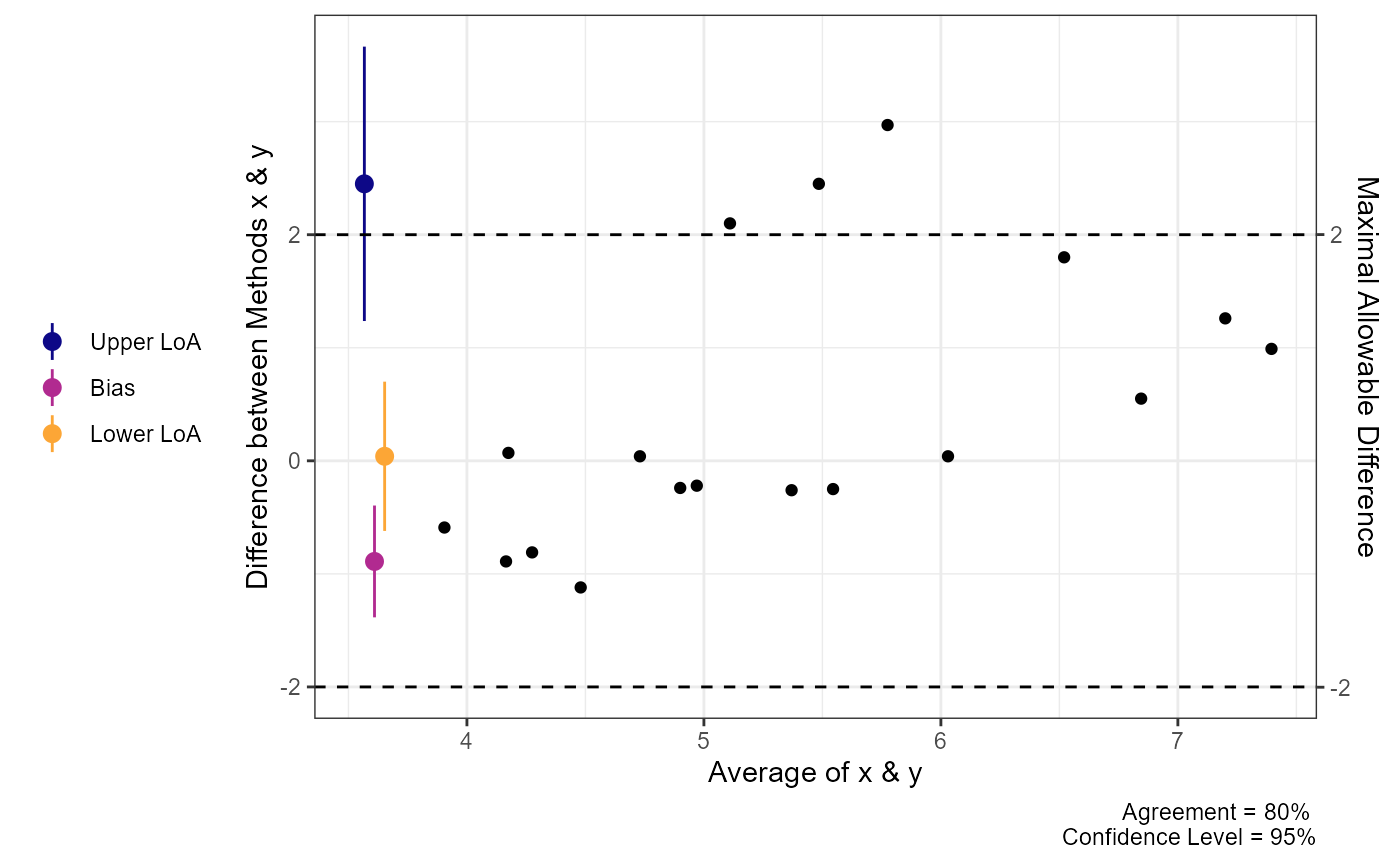
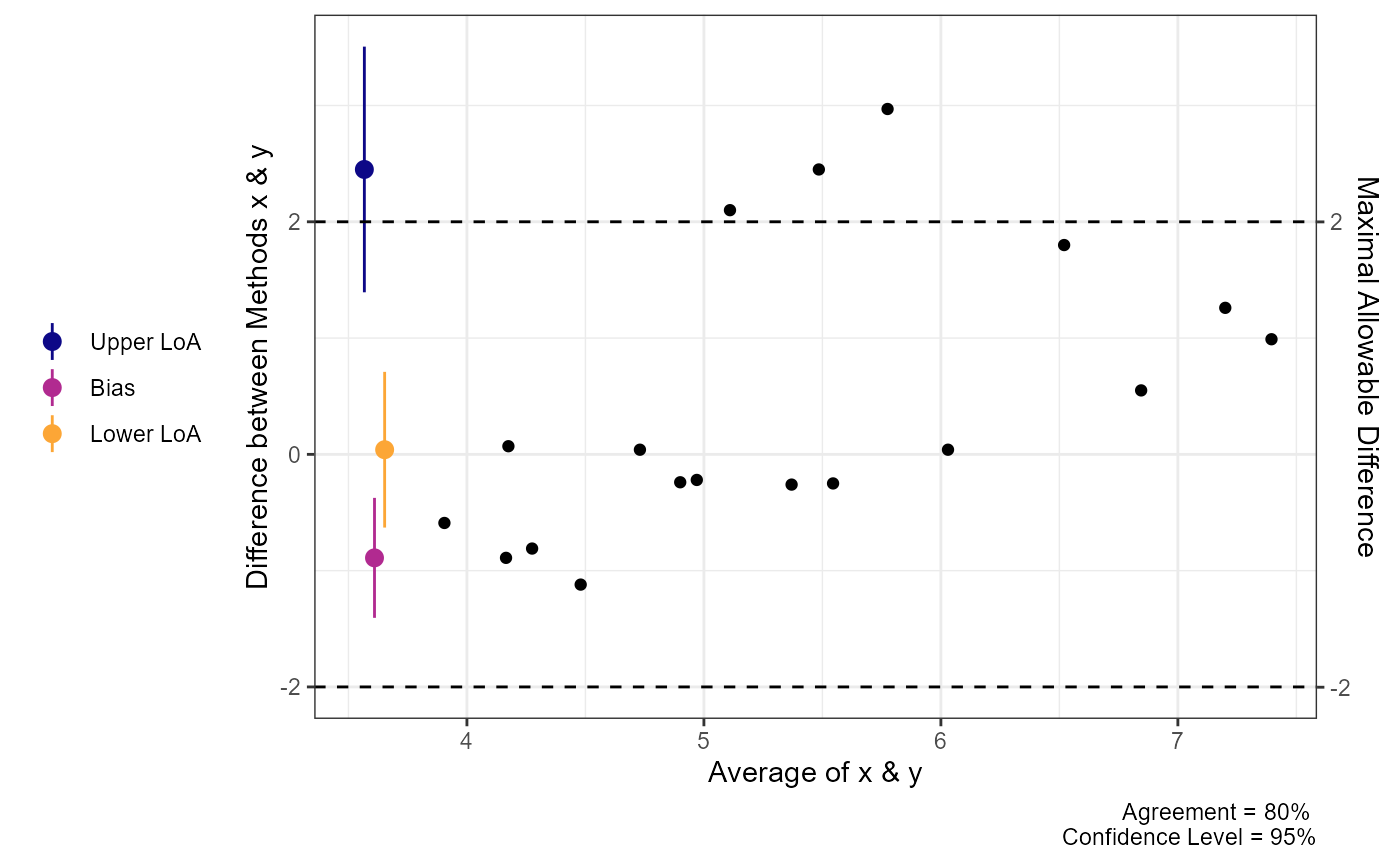
Update documentation
simple_agree functions now minimally documented correctly

diff --git a/docs/reference/agree_np.html b/docs/reference/agree_np.html
@@ -1,7 +1,5 @@
 <!DOCTYPE html>
-<!-- Generated by pkgdown: do not edit by hand --><html lang="en"><head><meta http-equiv="Content-Type" content="text/html; charset=UTF-8"><meta charset="utf-8"><meta http-equiv="X-UA-Compatible" content="IE=edge"><meta name="viewport" content="width=device-width, initial-scale=1.0"><title>Nonparametric Test for Limits of Agreement
-A non-parametric approach to limits of agreement. The hypothesis test is based on binomial proportions within the maximal allowable differences, and the limits are calculated with quantile regression. — agree_np • SimplyAgree</title><!-- jquery --><script src="https://cdnjs.cloudflare.com/ajax/libs/jquery/3.4.1/jquery.min.js" integrity="sha256-CSXorXvZcTkaix6Yvo6HppcZGetbYMGWSFlBw8HfCJo=" crossorigin="anonymous"></script><!-- Bootstrap --><link rel="stylesheet" href="https://cdnjs.cloudflare.com/ajax/libs/twitter-bootstrap/3.4.1/css/bootstrap.min.css" integrity="sha256-bZLfwXAP04zRMK2BjiO8iu9pf4FbLqX6zitd+tIvLhE=" crossorigin="anonymous"><script src="https://cdnjs.cloudflare.com/ajax/libs/twitter-bootstrap/3.4.1/js/bootstrap.min.js" integrity="sha256-nuL8/2cJ5NDSSwnKD8VqreErSWHtnEP9E7AySL+1ev4=" crossorigin="anonymous"></script><!-- bootstrap-toc --><link rel="stylesheet" href="../bootstrap-toc.css"><script src="../bootstrap-toc.js"></script><!-- Font Awesome icons --><link rel="stylesheet" href="https://cdnjs.cloudflare.com/ajax/libs/font-awesome/5.12.1/css/all.min.css" integrity="sha256-mmgLkCYLUQbXn0B1SRqzHar6dCnv9oZFPEC1g1cwlkk=" crossorigin="anonymous"><link rel="stylesheet" href="https://cdnjs.cloudflare.com/ajax/libs/font-awesome/5.12.1/css/v4-shims.min.css" integrity="sha256-wZjR52fzng1pJHwx4aV2AO3yyTOXrcDW7jBpJtTwVxw=" crossorigin="anonymous"><!-- clipboard.js --><script src="https://cdnjs.cloudflare.com/ajax/libs/clipboard.js/2.0.6/clipboard.min.js" integrity="sha256-inc5kl9MA1hkeYUt+EC3BhlIgyp/2jDIyBLS6k3UxPI=" crossorigin="anonymous"></script><!-- headroom.js --><script src="https://cdnjs.cloudflare.com/ajax/libs/headroom/0.11.0/headroom.min.js" integrity="sha256-AsUX4SJE1+yuDu5+mAVzJbuYNPHj/WroHuZ8Ir/CkE0=" crossorigin="anonymous"></script><script src="https://cdnjs.cloudflare.com/ajax/libs/headroom/0.11.0/jQuery.headroom.min.js" integrity="sha256-ZX/yNShbjqsohH1k95liqY9Gd8uOiE1S4vZc+9KQ1K4=" crossorigin="anonymous"></script><!-- pkgdown --><link href="../pkgdown.css" rel="stylesheet"><script src="../pkgdown.js"></script><meta property="og:title" content="Nonparametric Test for Limits of Agreement
-A non-parametric approach to limits of agreement. The hypothesis test is based on binomial proportions within the maximal allowable differences, and the limits are calculated with quantile regression. — agree_np"><meta property="og:description" content="agree_np produces an agreement analysis based on quantiles and"><!-- mathjax --><script src="https://cdnjs.cloudflare.com/ajax/libs/mathjax/2.7.5/MathJax.js" integrity="sha256-nvJJv9wWKEm88qvoQl9ekL2J+k/RWIsaSScxxlsrv8k=" crossorigin="anonymous"></script><script src="https://cdnjs.cloudflare.com/ajax/libs/mathjax/2.7.5/config/TeX-AMS-MML_HTMLorMML.js" integrity="sha256-84DKXVJXs0/F8OTMzX4UR909+jtl4G7SPypPavF+GfA=" crossorigin="anonymous"></script><!--[if lt IE 9]>
+<!-- Generated by pkgdown: do not edit by hand --><html lang="en"><head><meta http-equiv="Content-Type" content="text/html; charset=UTF-8"><meta charset="utf-8"><meta http-equiv="X-UA-Compatible" content="IE=edge"><meta name="viewport" content="width=device-width, initial-scale=1.0"><title>Nonparametric Test for Limits of Agreement — agree_np • SimplyAgree</title><!-- jquery --><script src="https://cdnjs.cloudflare.com/ajax/libs/jquery/3.4.1/jquery.min.js" integrity="sha256-CSXorXvZcTkaix6Yvo6HppcZGetbYMGWSFlBw8HfCJo=" crossorigin="anonymous"></script><!-- Bootstrap --><link rel="stylesheet" href="https://cdnjs.cloudflare.com/ajax/libs/twitter-bootstrap/3.4.1/css/bootstrap.min.css" integrity="sha256-bZLfwXAP04zRMK2BjiO8iu9pf4FbLqX6zitd+tIvLhE=" crossorigin="anonymous"><script src="https://cdnjs.cloudflare.com/ajax/libs/twitter-bootstrap/3.4.1/js/bootstrap.min.js" integrity="sha256-nuL8/2cJ5NDSSwnKD8VqreErSWHtnEP9E7AySL+1ev4=" crossorigin="anonymous"></script><!-- bootstrap-toc --><link rel="stylesheet" href="../bootstrap-toc.css"><script src="../bootstrap-toc.js"></script><!-- Font Awesome icons --><link rel="stylesheet" href="https://cdnjs.cloudflare.com/ajax/libs/font-awesome/5.12.1/css/all.min.css" integrity="sha256-mmgLkCYLUQbXn0B1SRqzHar6dCnv9oZFPEC1g1cwlkk=" crossorigin="anonymous"><link rel="stylesheet" href="https://cdnjs.cloudflare.com/ajax/libs/font-awesome/5.12.1/css/v4-shims.min.css" integrity="sha256-wZjR52fzng1pJHwx4aV2AO3yyTOXrcDW7jBpJtTwVxw=" crossorigin="anonymous"><!-- clipboard.js --><script src="https://cdnjs.cloudflare.com/ajax/libs/clipboard.js/2.0.6/clipboard.min.js" integrity="sha256-inc5kl9MA1hkeYUt+EC3BhlIgyp/2jDIyBLS6k3UxPI=" crossorigin="anonymous"></script><!-- headroom.js --><script src="https://cdnjs.cloudflare.com/ajax/libs/headroom/0.11.0/headroom.min.js" integrity="sha256-AsUX4SJE1+yuDu5+mAVzJbuYNPHj/WroHuZ8Ir/CkE0=" crossorigin="anonymous"></script><script src="https://cdnjs.cloudflare.com/ajax/libs/headroom/0.11.0/jQuery.headroom.min.js" integrity="sha256-ZX/yNShbjqsohH1k95liqY9Gd8uOiE1S4vZc+9KQ1K4=" crossorigin="anonymous"></script><!-- pkgdown --><link href="../pkgdown.css" rel="stylesheet"><script src="../pkgdown.js"></script><meta property="og:title" content="Nonparametric Test for Limits of Agreement — agree_np"><meta property="og:description" content="agree_np A non-parametric approach to limits of agreement. The hypothesis test is based on binomial proportions within the maximal allowable differences, and the limits are calculated with quantile regression."><!-- mathjax --><script src="https://cdnjs.cloudflare.com/ajax/libs/mathjax/2.7.5/MathJax.js" integrity="sha256-nvJJv9wWKEm88qvoQl9ekL2J+k/RWIsaSScxxlsrv8k=" crossorigin="anonymous"></script><script src="https://cdnjs.cloudflare.com/ajax/libs/mathjax/2.7.5/config/TeX-AMS-MML_HTMLorMML.js" integrity="sha256-84DKXVJXs0/F8OTMzX4UR909+jtl4G7SPypPavF+GfA=" crossorigin="anonymous"></script><!--[if lt IE 9]>
 <script src="https://oss.maxcdn.com/html5shiv/3.7.3/html5shiv.min.js"></script>
 <script src="https://oss.maxcdn.com/respond/1.4.2/respond.min.js"></script>
 <![endif]--></head><body data-spy="scroll" data-target="#toc">
@@ -58,14 +56,13 @@ A non-parametric approach to limits of agreement. The hypothesis test is based o
       </header><div class="row">
   <div class="col-md-9 contents">
     <div class="page-header">
-    <h1>Nonparametric Test for Limits of Agreement
-A non-parametric approach to limits of agreement. The hypothesis test is based on binomial proportions within the maximal allowable differences, and the limits are calculated with quantile regression.</h1>
+    <h1>Nonparametric Test for Limits of Agreement</h1>
     
     <div class="hidden name"><code>agree_np.Rd</code></div>
     </div>
 
     <div class="ref-description">
-    <p>agree_np produces an agreement analysis based on quantiles and</p>
+    <p>agree_np A non-parametric approach to limits of agreement. The hypothesis test is based on binomial proportions within the maximal allowable differences, and the limits are calculated with quantile regression.</p>
     </div>
 
     <div id="ref-usage">
@@ -105,17 +102,20 @@ A non-parametric approach to limits of agreement. The hypothesis test is based o
 </dl></div>
     <div id="value">
     <h2>Value</h2>
-    <p>Returns adv-agree object with the results of the agreement analysis.</p><dl><dt><code>"loa"</code></dt>
-<dd><p>a data frame of the limits of agreement.</p></dd>
+    <p>Returns simple_agree object with the results of the agreement analysis.</p><dl><dt><code>"loa"</code></dt>
+<dd><p>A data frame of the limits of agreement.</p></dd>
 
   <dt><code>"agee"</code></dt>
-<dd><p>a data frame of the binomial proportion of results in agreement..</p></dd>
+<dd><p>A data frame of the binomial proportion of results in agreement.</p></dd>
 
   <dt><code>"h0_test"</code></dt>
 <dd><p>Decision from hypothesis test.</p></dd>
 
+  <dt><code>"qr_mod"</code></dt>
+<dd><p>The quantile regression model.</p></dd>
+
   <dt><code>"call"</code></dt>
-<dd><p>the matched call</p></dd>
+<dd><p>The matched call</p></dd>
 
 
 
@@ -131,6 +131,7 @@ A non-parametric approach to limits of agreement. The hypothesis test is based o
     <h2>Examples</h2>
     <div class="sourceCode"><pre class="sourceCode r"><code><span class="r-in"><span class="fu"><a href="https://rdrr.io/r/utils/data.html" class="external-link">data</a></span><span class="op">(</span><span class="st">'reps'</span><span class="op">)</span></span>
 <span class="r-in"><span class="fu">agree_np</span><span class="op">(</span>x <span class="op">=</span> <span class="st">"x"</span>, y <span class="op">=</span> <span class="st">"y"</span>, id <span class="op">=</span> <span class="st">"id"</span>, data <span class="op">=</span> <span class="va">reps</span>, delta <span class="op">=</span> <span class="fl">2</span><span class="op">)</span></span>
+<span class="r-wrn co"><span class="r-pr">#&gt;</span> <span class="warning">Warning: </span>Evidence of proportional bias. Consider setting prop_bias to TRUE.</span>
 <span class="r-out co"><span class="r-pr">#&gt;</span> Limit of Agreement = 95%</span>
 <span class="r-out co"><span class="r-pr">#&gt;</span> Binomial proportions test and quantile regression for LoA</span>
 <span class="r-out co"><span class="r-pr">#&gt;</span> </span>
@@ -140,9 +141,9 @@ A non-parametric approach to limits of agreement. The hypothesis test is based o
 <span class="r-out co"><span class="r-pr">#&gt;</span> </span>
 <span class="r-out co"><span class="r-pr">#&gt;</span> ###- Quantile Limits of Agreement (LoA) -###</span>
 <span class="r-out co"><span class="r-pr">#&gt;</span>           Estimate Lower CI Upper CI CI Level</span>
-<span class="r-out co"><span class="r-pr">#&gt;</span> Lower LoA    -1.12  -1.4456  -0.7944     0.90</span>
-<span class="r-out co"><span class="r-pr">#&gt;</span> Bias          0.04  -0.5896   0.6696     0.95</span>
-<span class="r-out co"><span class="r-pr">#&gt;</span> Upper LoA     2.97   2.2234   3.7166     0.90</span>
+<span class="r-out co"><span class="r-pr">#&gt;</span> Lower LoA    -1.12  -1.4572  -0.7828     0.90</span>
+<span class="r-out co"><span class="r-pr">#&gt;</span> Bias          0.04  -0.5767   0.6567     0.95</span>
+<span class="r-out co"><span class="r-pr">#&gt;</span> Upper LoA     2.97   2.2105   3.7295     0.90</span>
 <span class="r-out co"><span class="r-pr">#&gt;</span> </span>
 </code></pre></div>
     </div>

diff --git a/docs/articles/agreement_analysis.html b/docs/articles/agreement_analysis.html
@@ -654,9 +654,9 @@ are no longer symmetric around the bias estimate.</p>
 <span class="co">#&gt; </span>
 <span class="co">#&gt; ###- Quantile Limits of Agreement (LoA) -###</span>
 <span class="co">#&gt;           Estimate Lower CI Upper CI CI Level</span>
-<span class="co">#&gt; Lower LoA    -0.89  -1.3845  -0.3955     0.90</span>
-<span class="co">#&gt; Bias          0.04  -0.6201   0.7001     0.95</span>
-<span class="co">#&gt; Upper LoA     2.45   1.2365   3.6635     0.90</span>
+<span class="co">#&gt; Lower LoA    -0.89  -1.4058  -0.3742     0.90</span>
+<span class="co">#&gt; Bias          0.04  -0.6295   0.7095     0.95</span>
+<span class="co">#&gt; Upper LoA     2.45   1.3937   3.5063     0.90</span>
 
 <span class="fu"><a href="https://rdrr.io/r/graphics/plot.default.html" class="external-link">plot</a></span><span class="op">(</span><span class="va">a1</span><span class="op">)</span></code></pre></div>
 <p><img src="agreement_analysis_files/figure-html/unnamed-chunk-13-1.png" width="700"></p>
@@ -680,15 +680,15 @@ agreement does not.</p>
 <span class="co">#&gt; </span>
 <span class="co">#&gt; ###- Quantile Limits of Agreement (LoA) -###</span>
 <span class="co">#&gt;                  Estimate Lower CI Upper CI CI Level</span>
-<span class="co">#&gt; Lower LoA @ 3.9  -1.28975  -1.6938 -0.88566     0.90</span>
-<span class="co">#&gt; Lower LoA @ 5.24 -0.45436  -0.6343 -0.27440     0.90</span>
-<span class="co">#&gt; Lower LoA @ 7.4   0.89417   0.6303  1.15805     0.90</span>
-<span class="co">#&gt; Bias @ 3.9       -0.73052  -1.4047 -0.05637     0.95</span>
-<span class="co">#&gt; Bias @ 5.24      -0.07238  -0.6020  0.45721     0.95</span>
-<span class="co">#&gt; Bias @ 7.4        0.99000  -0.5447  2.52465     0.95</span>
-<span class="co">#&gt; Upper LoA @ 3.9  -0.38310  -2.6644  1.89822     0.90</span>
-<span class="co">#&gt; Upper LoA @ 5.24  2.01069   0.8349  3.18646     0.90</span>
-<span class="co">#&gt; Upper LoA @ 7.4   5.87483   2.2327  9.51700     0.90</span>
+<span class="co">#&gt; Lower LoA @ 3.9  -1.28975 -1.68893  -0.8906     0.90</span>
+<span class="co">#&gt; Lower LoA @ 5.24 -0.45436 -0.63736  -0.2714     0.90</span>
+<span class="co">#&gt; Lower LoA @ 7.4   0.89417  0.62626   1.1621     0.90</span>
+<span class="co">#&gt; Bias @ 3.9       -0.73052 -1.29400  -0.1670     0.95</span>
+<span class="co">#&gt; Bias @ 5.24      -0.07238 -0.51373   0.3690     0.95</span>
+<span class="co">#&gt; Bias @ 7.4        0.99000  0.01535   1.9647     0.95</span>
+<span class="co">#&gt; Upper LoA @ 3.9  -0.38310 -2.72804   1.9618     0.90</span>
+<span class="co">#&gt; Upper LoA @ 5.24  2.01069  0.93016   3.0912     0.90</span>
+<span class="co">#&gt; Upper LoA @ 7.4   5.87483  2.35990   9.3898     0.90</span>
 
 <span class="fu"><a href="https://rdrr.io/r/graphics/plot.default.html" class="external-link">plot</a></span><span class="op">(</span><span class="va">a1</span><span class="op">)</span></code></pre></div>
 <p><img src="agreement_analysis_files/figure-html/unnamed-chunk-14-1.png" width="700"></p>

diff --git a/docs/reference/reli_stats.html b/docs/reference/reli_stats.html
@@ -101,7 +101,7 @@
 <dt>other_ci</dt>
 <dd><p>Logical value (TRUE or FALSE) indicating whether to calculate confidence intervals for the CV, SEM, SEP, and SEE. Note: this will dramatically increase the computation time.</p></dd>
 <dt>replicates</dt>
-<dd><p>the number of bootstrap replicates. Passed on to the boot function. Default is 500.</p></dd>
+<dd><p>The number of bootstrap replicates. Passed on to the boot function. Default is 500.</p></dd>
 </dl></div>
     <div id="value">
     <h2>Value</h2>
@@ -127,13 +127,13 @@
 <dd><p>Coefficient of Variation</p></dd>
 
   <dt><code>"SEM"</code></dt>
-<dd><p>Standard MSE of Measurement</p></dd>
+<dd><p>List with Standard MSE of Measurement estimate (est)</p></dd>
 
   <dt><code>"SEE"</code></dt>
-<dd><p>Standard MSE of the Estimate</p></dd>
+<dd><p>List with Standard MSE of the Estimate estimate (est)</p></dd>
 
   <dt><code>"SEP"</code></dt>
-<dd><p>Standard MSE of Predicitions</p></dd>
+<dd><p>List with Standard MSE of Predicitions (est)</p></dd>
 
   <dt><code>"call"</code></dt>
 <dd><p>the matched call</p></dd>
@@ -143,7 +143,9 @@
 </dl></div>
     <div id="details">
     <h2>Details</h2>
-    <p>The CV calculation has 3 versions. The "MSE" uses the "mean squared error" or residual error from the linear mixed model used to calculate the ICCs. The "SEM" option instead uses the SEM calculation and expresses CV as a ratio of the SEM to the overall mean. The "residuals" option uses the sjstats R package approach which uses the model residuals to calculate the root mean square error.</p>
+    <p>The CV calculation has 3 versions. The "MSE" uses the "mean squared error" from the linear mixed model used to calculate the ICCs.
+The "SEM" option instead uses the SEM calculation and expresses CV as a ratio of the SEM to the overall mean.
+The "residuals" option uses the sjstats R package approach which uses the model residuals to calculate the root mean square error which is then divided by the grand mean.</p>
 <p>This function returns intraclass correlation coefficients and other measures of reliability (CV, SEM, SEE, and SEP).
 The estimates of variances for any of the measures are derived from linear mixed models.
 The results may differ slightly from the results from ICC calculations derived from an analysis of variance.</p>

diff --git a/docs/reference/agree_nest.html b/docs/reference/agree_nest.html
@@ -103,16 +103,10 @@
     <div id="value">
     <h2>Value</h2>
     <p>Returns single simple_agree class object with the results of the agreement analysis.</p><dl><dt><code>"loa"</code></dt>
-<dd><p>a data frame of the limits of agreement including the average difference between the two sets of measurements, the standard deviation of the difference between the two sets of measurements and the lower and upper confidence limits of the difference between the two sets of measurements.</p></dd>
+<dd><p>A data frame of the limits of agreement including the average difference between the two sets of measurements, the standard deviation of the difference between the two sets of measurements and the lower and upper confidence limits of the difference between the two sets of measurements.</p></dd>
 
   <dt><code>"h0_test"</code></dt>
 <dd><p>Decision from hypothesis test.</p></dd>
-
-  <dt><code>"identity.plot"</code></dt>
-<dd><p>Plot of x and y with a line of identity with a linear regression line</p></dd>
-
-  <dt><code>"bland_alt.plot"</code></dt>
-<dd><p>Simple Bland-Altman plot. Red line are the upper and lower bounds for shieh test; grey box is the acceptable limits (delta). If the red lines are within the grey box then the shieh test should indicate 'reject h0', or to reject the null hypothesis that this not acceptable agreement between x &amp; y.</p></dd>
 
   <dt><code>"ccc.xy"</code></dt>
 <dd><p>Lin's concordance correlation coefficient and confidence intervals using U-statistics. Warning: if underlying value varies this estimate will be inaccurate.</p></dd>
@@ -120,6 +114,11 @@
   <dt><code>"call"</code></dt>
 <dd><p>the matched call</p></dd>
 
+  <dt><code>"var_comp"</code></dt>
+<dd><p>Table of Variance Components</p></dd>
+
+  <dt><code>"class"</code></dt>
+<dd><p>The type of simple_agree analysis</p></dd>
 
 
 </dl></div>

diff --git a/docs/reference/agree_reps.html b/docs/reference/agree_reps.html
@@ -108,17 +108,17 @@
   <dt><code>"h0_test"</code></dt>
 <dd><p>Decision from hypothesis test.</p></dd>
 
-  <dt><code>"identity.plot"</code></dt>
-<dd><p>Plot of x and y with a line of identity with a linear regression line</p></dd>
-
-  <dt><code>"bland_alt.plot"</code></dt>
-<dd><p>Simple Bland-Altman plot. Red line are the upper and lower bounds for shieh test; grey box is the acceptable limits (delta). If the red lines are within the grey box then the shieh test should indicate 'reject h0', or to reject the null hypothesis that this not acceptable agreement between x &amp; y.</p></dd>
-
   <dt><code>"ccc.xy"</code></dt>
 <dd><p>Lin's concordance correlation coefficient and confidence intervals using U-statistics.</p></dd>
 
   <dt><code>"call"</code></dt>
-<dd><p>the matched call</p></dd>
+<dd><p>The matched call.</p></dd>
+
+  <dt><code>"var_comp"</code></dt>
+<dd><p>Table of Variance Components.</p></dd>
+
+  <dt><code>"class"</code></dt>
+<dd><p>The type of simple_agree analysis.</p></dd>
 
 
 

diff --git a/docs/reference/index.html b/docs/reference/index.html
@@ -70,8 +70,7 @@
       </tr><tr><td>
           <p><code><a href="agree_np.html">agree_np()</a></code> </p>
         </td>
-        <td><p>Nonparametric Test for Limits of Agreement
-A non-parametric approach to limits of agreement. The hypothesis test is based on binomial proportions within the maximal allowable differences, and the limits are calculated with quantile regression.</p></td>
+        <td><p>Nonparametric Test for Limits of Agreement</p></td>
       </tr><tr><td>
           <p><code><a href="agree_reps.html">agree_reps()</a></code> </p>
         </td>
